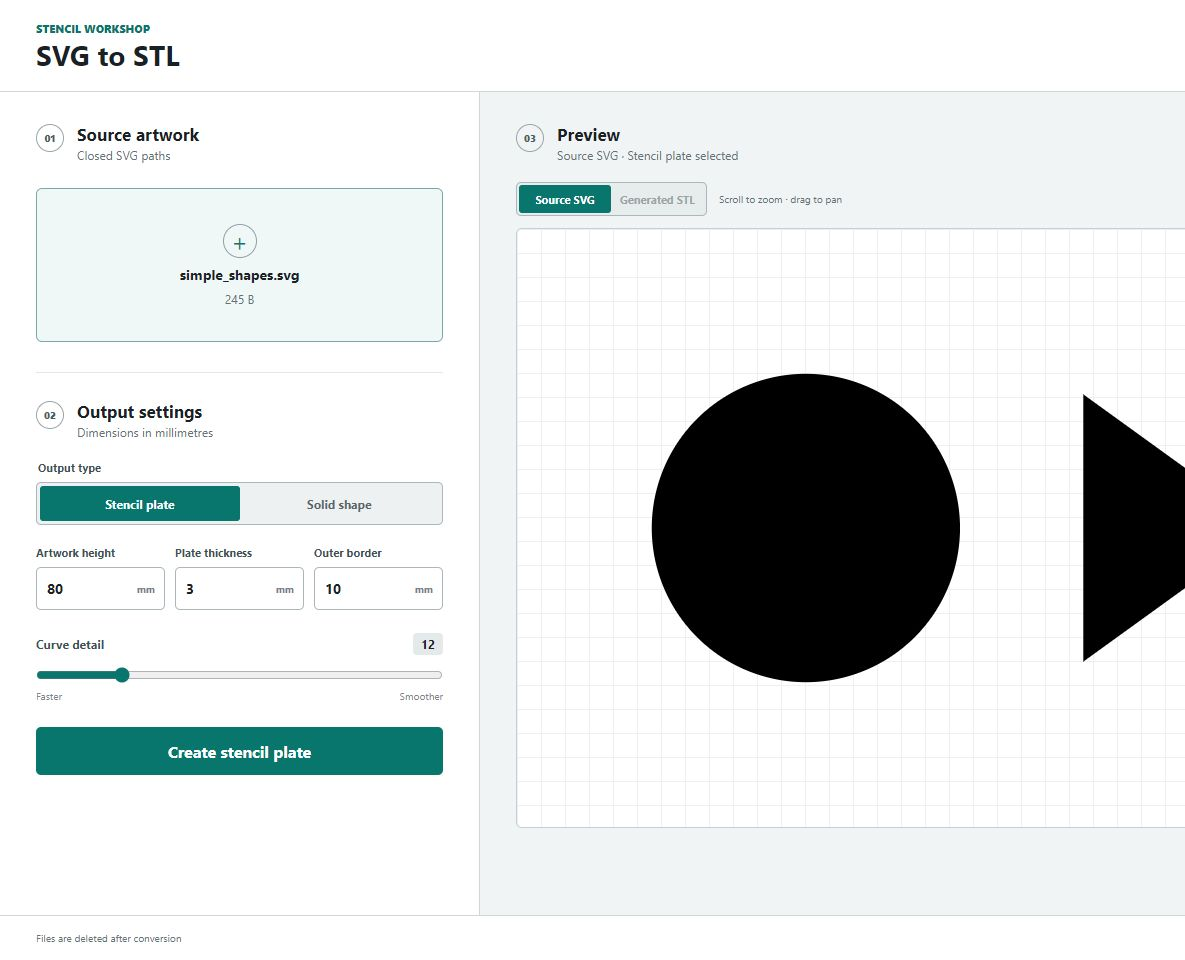
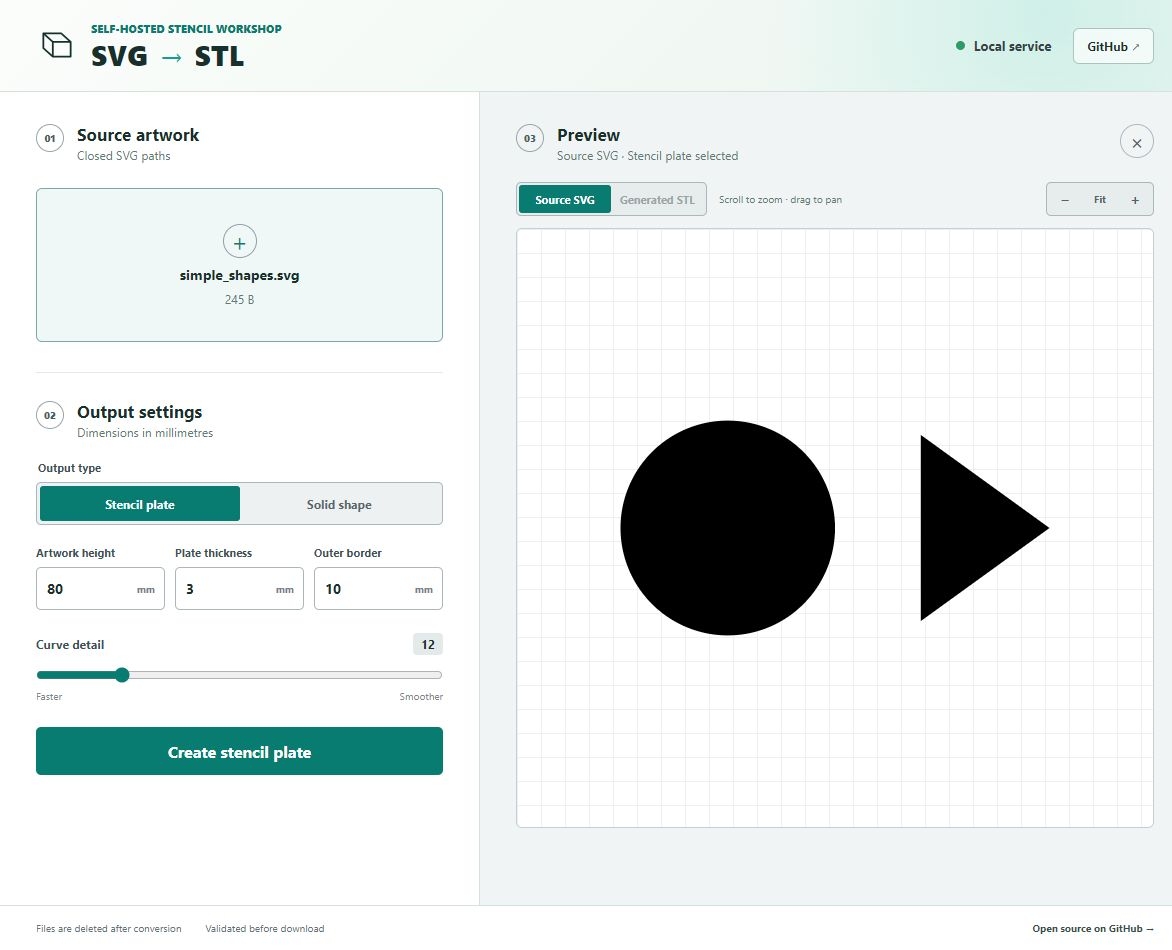
Unify app branding and refresh screenshots

diff --git a/app/static/styles.css b/app/static/styles.css
@@ -1,18 +1,19 @@
 :root {
-  color: #182126;
-  background: #eef1f2;
+  color: #17302d;
+  background: #f7faf7;
   font-family: Inter, ui-sans-serif, system-ui, -apple-system, BlinkMacSystemFont, "Segoe UI", sans-serif;
   font-synthesis: none;
   letter-spacing: 0;
-  --ink: #182126;
-  --muted: #657176;
-  --line: #cfd7d9;
-  --soft-line: #e2e7e8;
+  --ink: #17302d;
+  --muted: #647975;
+  --line: #d4e1dc;
+  --soft-line: #e2ebe7;
   --paper: #ffffff;
-  --canvas: #f6f8f8;
-  --teal: #08766d;
-  --teal-dark: #075d57;
-  --yellow: #f0c84b;
+  --canvas: #f7faf7;
+  --teal: #087c70;
+  --teal-dark: #08675e;
+  --teal-mid: #10a18f;
+  --yellow: #eeb54a;
 }
 
 * { box-sizing: border-box; }
@@ -26,6 +27,7 @@ body {
 }
 
 button, input { font: inherit; letter-spacing: 0; }
+a { color: inherit; }
 button, label, input[type="range"] { -webkit-tap-highlight-color: transparent; }
 
 .app-header {
@@ -36,8 +38,30 @@ button, label, input[type="range"] { -webkit-tap-highlight-color: transparent; }
   justify-content: space-between;
   gap: 24px;
   border-bottom: 1px solid var(--line);
-  background: var(--paper);
+  background:
+    radial-gradient(circle at 88% 15%, rgba(49, 201, 180, 0.16), transparent 27%),
+    linear-gradient(135deg, #fbfdfb 0%, #f1f8f4 58%, #ecf6f1 100%);
 }
+
+.app-brand {
+  min-width: 0;
+  display: flex;
+  align-items: center;
+  gap: 13px;
+}
+
+.brand-mark {
+  width: 42px;
+  height: 42px;
+  flex: 0 0 42px;
+  fill: none;
+  stroke: currentColor;
+  stroke-linejoin: round;
+  stroke-width: 1.7;
+}
+
+.brand-copy { min-width: 0; }
+.brand-arrow { padding: 0 3px; color: var(--teal-mid); }
 
 .kicker, .result-label {
   margin: 0 0 4px;
@@ -47,7 +71,13 @@ button, label, input[type="range"] { -webkit-tap-highlight-color: transparent; }
 }
 
 h1, h2, p { margin-top: 0; }
-h1 { margin-bottom: 0; font-size: 28px; line-height: 1.05; font-weight: 760; }
+h1 { margin-bottom: 0; font-size: 28px; line-height: 1.05; font-weight: 820; letter-spacing: 0.01em; }
+
+.app-header-actions {
+  display: flex;
+  align-items: center;
+  gap: 22px;
+}
 
 .service-state {
   display: inline-flex;
@@ -301,6 +331,20 @@ h1 { margin-bottom: 0; font-size: 28px; line-height: 1.05; font-weight: 760; }
   gap: 12px;
 }
 
+.source-link {
+  padding: 9px 13px;
+  border: 1px solid #adc4bc;
+  border-radius: 6px;
+  color: var(--ink);
+  background: rgba(255, 255, 255, 0.68);
+  font-size: 12px;
+  font-weight: 720;
+  text-decoration: none;
+  transition: border-color 160ms ease, background 160ms ease;
+}
+
+.source-link:hover { border-color: var(--teal); background: #fff; }
+
 .preview-tools p {
   margin: 0;
   color: var(--muted);
@@ -440,6 +484,10 @@ footer {
   font-size: 10px;
 }
 
+.footer-assurances { display: flex; align-items: center; gap: 24px; }
+footer a { color: #36514d; font-weight: 700; text-decoration: none; }
+footer a:hover { color: var(--teal); text-decoration: underline; }
+
 [hidden] { display: none !important; }
 :focus-visible { outline: 3px solid #78b9b2; outline-offset: 2px; }
 
@@ -451,9 +499,13 @@ footer {
 
 @media (max-width: 560px) {
   .app-header, .control-pane, .preview-pane { padding-left: 20px; padding-right: 20px; }
-  .app-header { min-height: 82px; }
+  .app-header { min-height: 82px; gap: 14px; }
+  .brand-mark { width: 36px; height: 36px; flex-basis: 36px; }
+  .kicker { font-size: 9px; }
   h1 { font-size: 24px; }
-  .service-state { font-size: 11px; }
+  .service-state { display: none; }
+  .app-header-actions { gap: 8px; }
+  .source-link { padding: 8px 10px; }
   .field-grid { grid-template-columns: 1fr; }
   .preview-stage { min-height: 290px; }
   .preview-tools { flex-wrap: wrap; }
@@ -462,5 +514,6 @@ footer {
   .mesh-metrics { grid-template-columns: repeat(2, minmax(0, 1fr)); }
   .mesh-metrics div:nth-child(2) { border-right: 0; }
   .mesh-metrics div:nth-child(-n + 2) { border-bottom: 1px solid var(--soft-line); }
-  footer { padding: 12px 20px; align-items: flex-start; flex-direction: column; gap: 4px; }
+  footer { padding: 12px 20px; align-items: flex-start; flex-direction: column; gap: 8px; }
+  .footer-assurances { align-items: flex-start; flex-direction: column; gap: 4px; }
 }

diff --git a/app/templates/index.html b/app/templates/index.html
@@ -5,18 +5,27 @@
     <meta name="viewport" content="width=device-width, initial-scale=1">
     <meta name="color-scheme" content="light">
     <title>SVG to STL</title>
+    <link rel="icon" href="{{ url_for('static', path='/favicon.svg') }}" type="image/svg+xml">
     <link rel="stylesheet" href="{{ url_for('static', path='/styles.css') }}">
     <script type="module" src="{{ url_for('static', path='/app.js') }}"></script>
   </head>
   <body>
     <header class="app-header">
-      <div>
-        <p class="kicker">STENCIL WORKSHOP</p>
-        <h1>SVG to STL</h1>
+      <div class="app-brand">
+        <svg class="brand-mark" viewBox="0 0 40 40" aria-hidden="true"><path d="M7 9h17l9 8v14H16l-9-8Z"/><path d="m7 9 9 8h17M16 17v14"/></svg>
+        <div class="brand-copy">
+          <p class="kicker">SELF-HOSTED STENCIL WORKSHOP</p>
+          <h1>SVG <span class="brand-arrow">&rarr;</span> STL</h1>
+        </div>
       </div>
-      <div class="service-state" aria-label="Service available">
-        <span class="state-dot" aria-hidden="true"></span>
-        Local service
+      <div class="app-header-actions">
+        <div class="service-state" aria-label="Service available">
+          <span class="state-dot" aria-hidden="true"></span>
+          Local service
+        </div>
+        <a class="source-link" href="https://github.com/tonyjurg/svg2stl-web" target="_blank" rel="noopener noreferrer">
+          GitHub <span aria-hidden="true">&nearr;</span>
+        </a>
       </div>
     </header>
 
@@ -157,8 +166,11 @@
     </main>
 
     <footer>
-      <span>Files are deleted after conversion</span>
-      <span>Validated before download</span>
+      <div class="footer-assurances">
+        <span>Files are deleted after conversion</span>
+        <span>Validated before download</span>
+      </div>
+      <a href="https://github.com/tonyjurg/svg2stl-web" target="_blank" rel="noopener noreferrer">Open source on GitHub <span aria-hidden="true">&rarr;</span></a>
     </footer>
   </body>
 </html>

diff --git a/tests/test_web.py b/tests/test_web.py
@@ -26,6 +26,9 @@ def test_home_page_and_health_endpoint():
     assert 'id="show-svg"' in page.text
     assert 'id="show-stl"' in page.text
     assert 'type="module"' in page.text
+    assert 'class="brand-mark"' in page.text
+    assert "https://github.com/tonyjurg/svg2stl-web" in page.text
+    assert "/static/favicon.svg" in page.text
     assert health.json() == {"status": "ok"}
     assert "frame-ancestors 'none'" in page.headers["content-security-policy"]
     assert page.headers["x-content-type-options"] == "nosniff"
